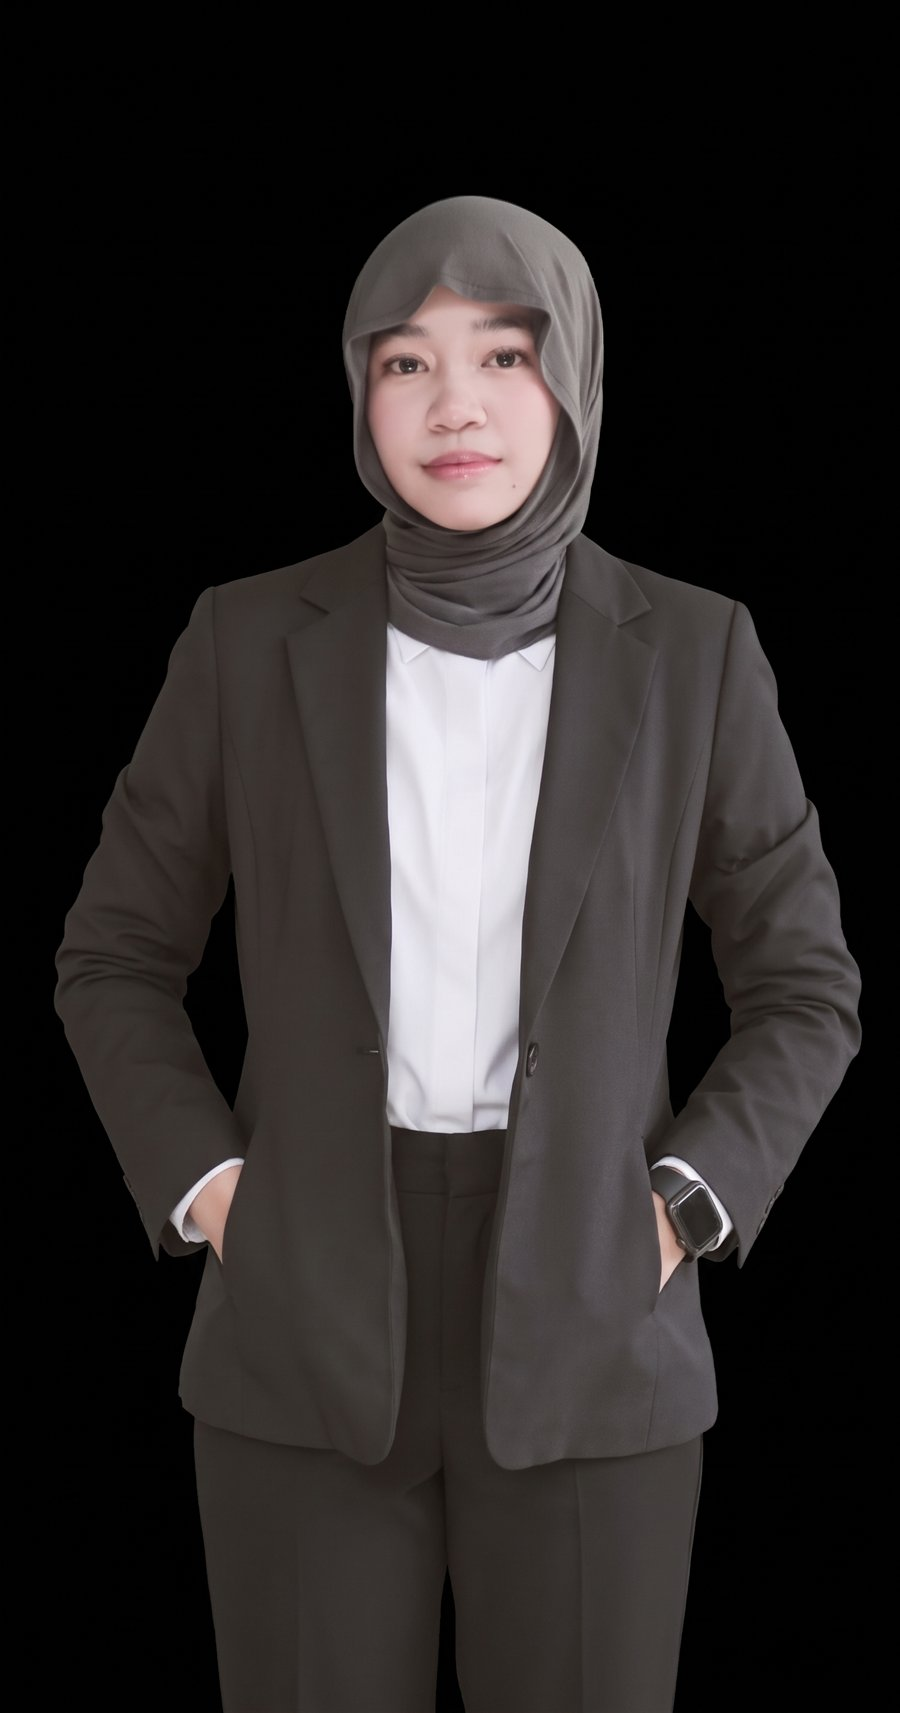
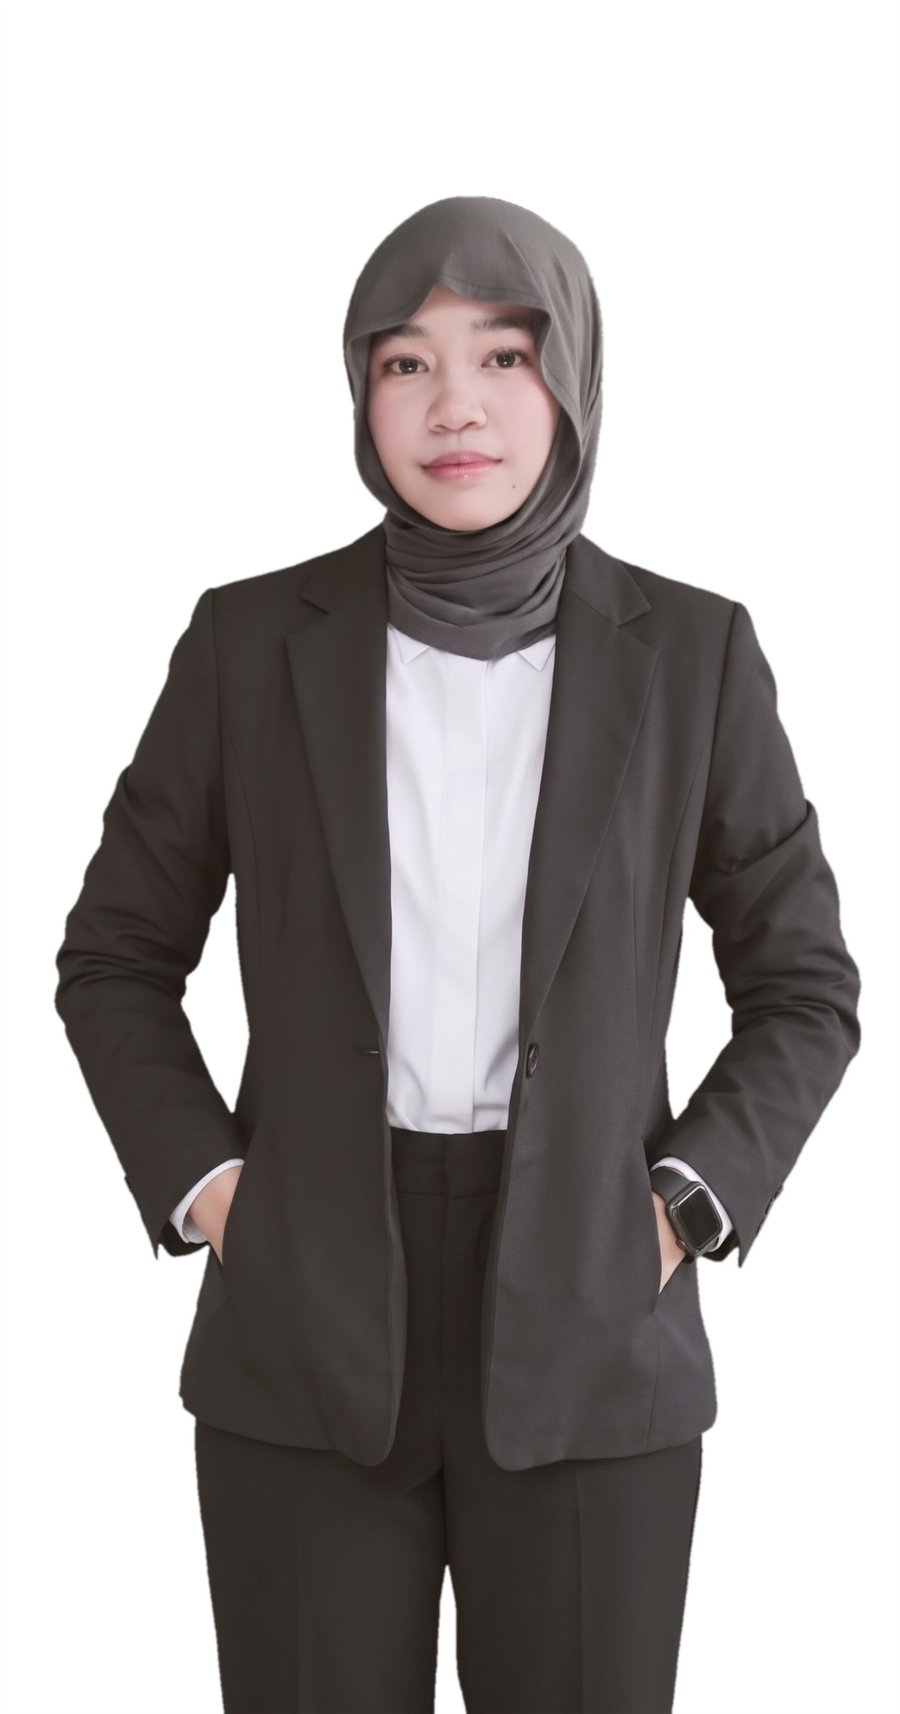
Update profile photo

diff --git a/css/style.css b/css/style.css
@@ -116,7 +116,7 @@ button { font: inherit; color: inherit; cursor: pointer; }
 
 .portrait { position: relative; aspect-ratio: 4 / 5; max-width: 26rem; width: 100%; justify-self: end; isolation: isolate; }
 .portrait::before { content: ""; position: absolute; inset: 0; background: var(--blue); border-radius: 28px; transform: translate(0.9rem, 0.9rem); z-index: -1; }
-.portrait img { width: 100%; height: 100%; object-fit: cover; object-position: 50% 12%; border-radius: 28px; background: var(--paper); border: 2px solid var(--ink); }
+.portrait img { width: 100%; height: 100%; object-fit: cover; object-position: 50% 25%; border-radius: 28px; background: var(--paper); border: 2px solid var(--ink); }
 .portrait-fallback { display: none; position: absolute; inset: 0; border-radius: 28px; background: var(--paper); border: 2px solid var(--ink); font-family: var(--display); font-weight: 800; font-size: clamp(5rem, 14vw, 9rem); letter-spacing: -0.05em; align-items: center; justify-content: center; }
 .portrait.no-photo img { display: none; }
 .portrait.no-photo .portrait-fallback { display: flex; }

diff --git a/index.html b/index.html
@@ -71,7 +71,7 @@
       </div>
 
       <figure class="portrait reveal r2" id="portrait">
-        <img src="assets/photos/profile.jpg" width="900" height="1713" alt="Portrait of Nadia Izzati" fetchpriority="high">
+        <img src="assets/photos/profile.jpg" width="900" height="1714" alt="Portrait of Nadia Izzati" fetchpriority="high">
         <span class="portrait-fallback" aria-hidden="true">NI</span>
       </figure>
     </section>
